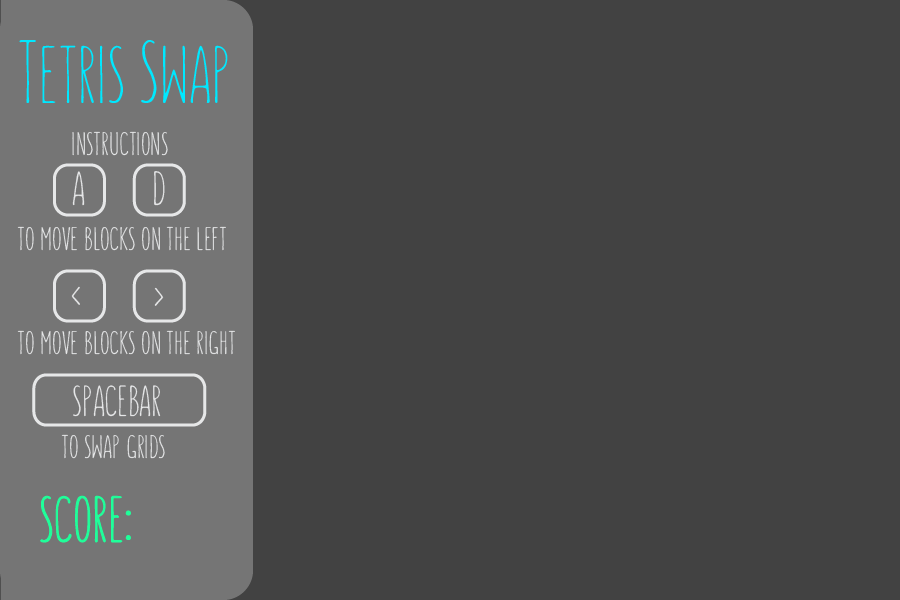
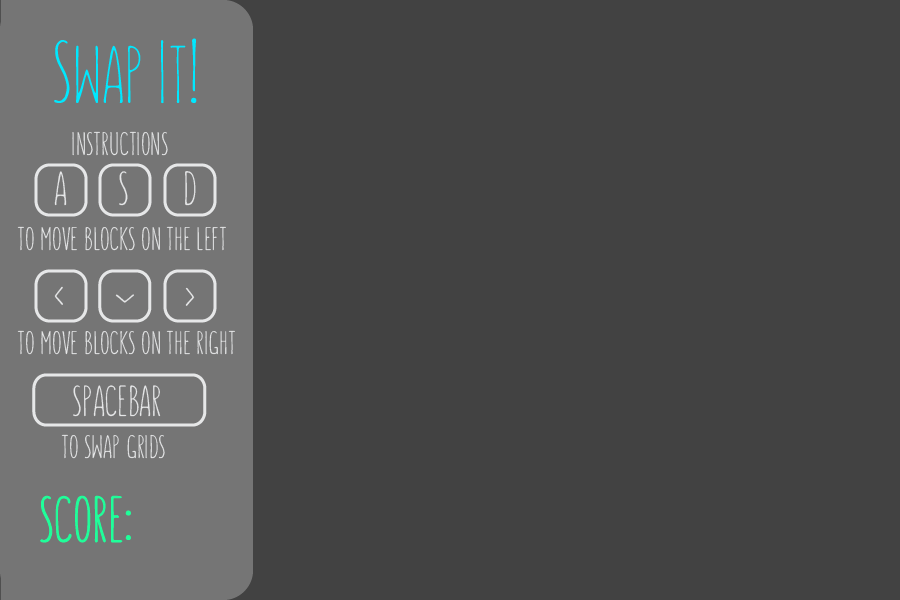
Added visual feedback. Changed movement implementation

Changed region(s): [[0.0311, 0.06, 0.2489, 0.18], [0.0311, 0.45, 0.2489, 0.54], [0.0311, 0.27, 0.2489, 0.36]]

diff --git a/main.js b/main.js
@@ -11,7 +11,7 @@ var block_len = 27;                                                 // a block i
 var grid_yellow, grid_orange;                                       // stores the current state of the grid in an array                    
 var curr_piece_a, curr_piece_b;                                     // a is always on the left, b on the right
 var next_ps_a, next_ps_b;                 							 // next piece shape
-var fall_time = 0, max_fall_time = 500;
+var fall_time = 0, max_fall_time = 1000, move_time = 0;
 var score = 0, scoreText = 0;
 var sound_swap, sound_clear, sound_bg;
 
@@ -20,6 +20,9 @@ function preload() {
     this.game.load.image('sprite_yellow', 'assets/grid_yellow.png');
     this.game.load.image('sprite_orange', 'assets/grid_orange.png');
     this.game.load.image('sprite_block', 'assets/block.png');
+	this.game.load.image('sprite_swap_y', 'assets/swap_yellow_left.png');
+	this.game.load.image('sprite_swap_o', 'assets/swap_orange_left.png');
+	this.game.load.image('sprite_rowcleared', 'assets/rowcleared.png');
 	this.load.bitmapFont('font_sunn', 'assets/sunn.png', 'assets/sunn.fnt');
 	this.load.audio('audio_swap', 'assets/swap.mp3');
 	this.load.audio('audio_clear', 'assets/clear.mp3');
@@ -75,14 +78,23 @@ function create() {
 }
 
 function update() {    
-    if(down_key_a.isDown ||down_key_b.isDown) { max_fall_time = 50; }
+    if(down_key_a.isDown || down_key_b.isDown) { max_fall_time = 50; }
+	if(left_key_a.isDown) { 
+			if(this.game.time.now > move_time) { moveLeft(curr_piece_a); move_time = this.game.time.now + 200;}
+		}
+		if(left_key_b.isDown) { 
+			if(this.game.time.now > move_time) { moveLeft(curr_piece_b); move_time = this.game.time.now + 200;}
+		}
+		if(right_key_a.isDown) { 
+			if(this.game.time.now > move_time) { moveRight(curr_piece_a); move_time = this.game.time.now + 200;}
+		}
+		if(right_key_b.isDown) { 
+			if(this.game.time.now > move_time) { moveRight(curr_piece_b); move_time = this.game.time.now + 200;}
+		}
     
     if(this.game.time.now > fall_time) {
 	
-        if(left_key_a.isDown) { max_fall_time = 300; moveLeft(curr_piece_a);}
-        if(left_key_b.isDown) { max_fall_time = 300; moveLeft(curr_piece_b);}
-        if(right_key_a.isDown) { max_fall_time = 300; moveRight(curr_piece_a);}
-        if(right_key_b.isDown) { max_fall_time = 300; moveRight(curr_piece_b);}
+        
 		
         // check the sprite positions of the grids
         // piece_a always on the left, piece_b always on the right
@@ -134,16 +146,23 @@ function update() {
 
 // Helper functions 
 function swap() {
+	var sprite_swap_y = this.game.add.sprite(540, 200, 'sprite_swap_y');
+	sprite_swap_y.alpha = 0;
+	var sprite_swap_o = this.game.add.sprite(540, 200, 'sprite_swap_o');
+	sprite_swap_o.alpha = 0;
+
     resetBlockSprites(grid_yellow);
 	resetBlockSprites(grid_orange);
     
     if(sprite_orange.x == x1) {
+		this.game.add.tween(sprite_swap_y).to({alpha:1}, 500, Phaser.Easing.Linear.None, true, 0, 0, true);
         sprite_orange.x = x2;
         grid_orange.piece_start_x = start_x2;
         sprite_yellow.x = x1;
         grid_yellow.piece_start_x = start_x1;
     }
     else {
+		this.game.add.tween(sprite_swap_o).to({alpha:1}, 500, Phaser.Easing.Linear.None, true, 0, 0, true);
         sprite_orange.x = x1;
         grid_orange.piece_start_x = start_x1;
         sprite_yellow.x = x2;

diff --git a/grid.js b/grid.js
@@ -33,7 +33,7 @@ Grid.prototype = {
 			this.arr[coord[0]][coord[1]] = 1;
 		}
 		renderUpdatedGrid(grid);
-			
+		
 		// check if row is completed
 		for(var j=0; j<20; j++) {
 			var sum = 0;
@@ -42,6 +42,9 @@ Grid.prototype = {
 			}
 			if(sum == 10) { 		// row is complete
 				// shift blocks above j down by one row
+				var sprite_rowcleared = this.game.add.sprite(this.piece_start_x+45, 100, 'sprite_rowcleared');
+				sprite_rowcleared.alpha = 0;
+				this.game.add.tween(sprite_rowcleared).to({alpha:1}, 500, Phaser.Easing.Linear.None,  true, 0, 0, true);
 				console.log('row completed');
 				score += 10;
 				scoreText.setText(score.toString());
